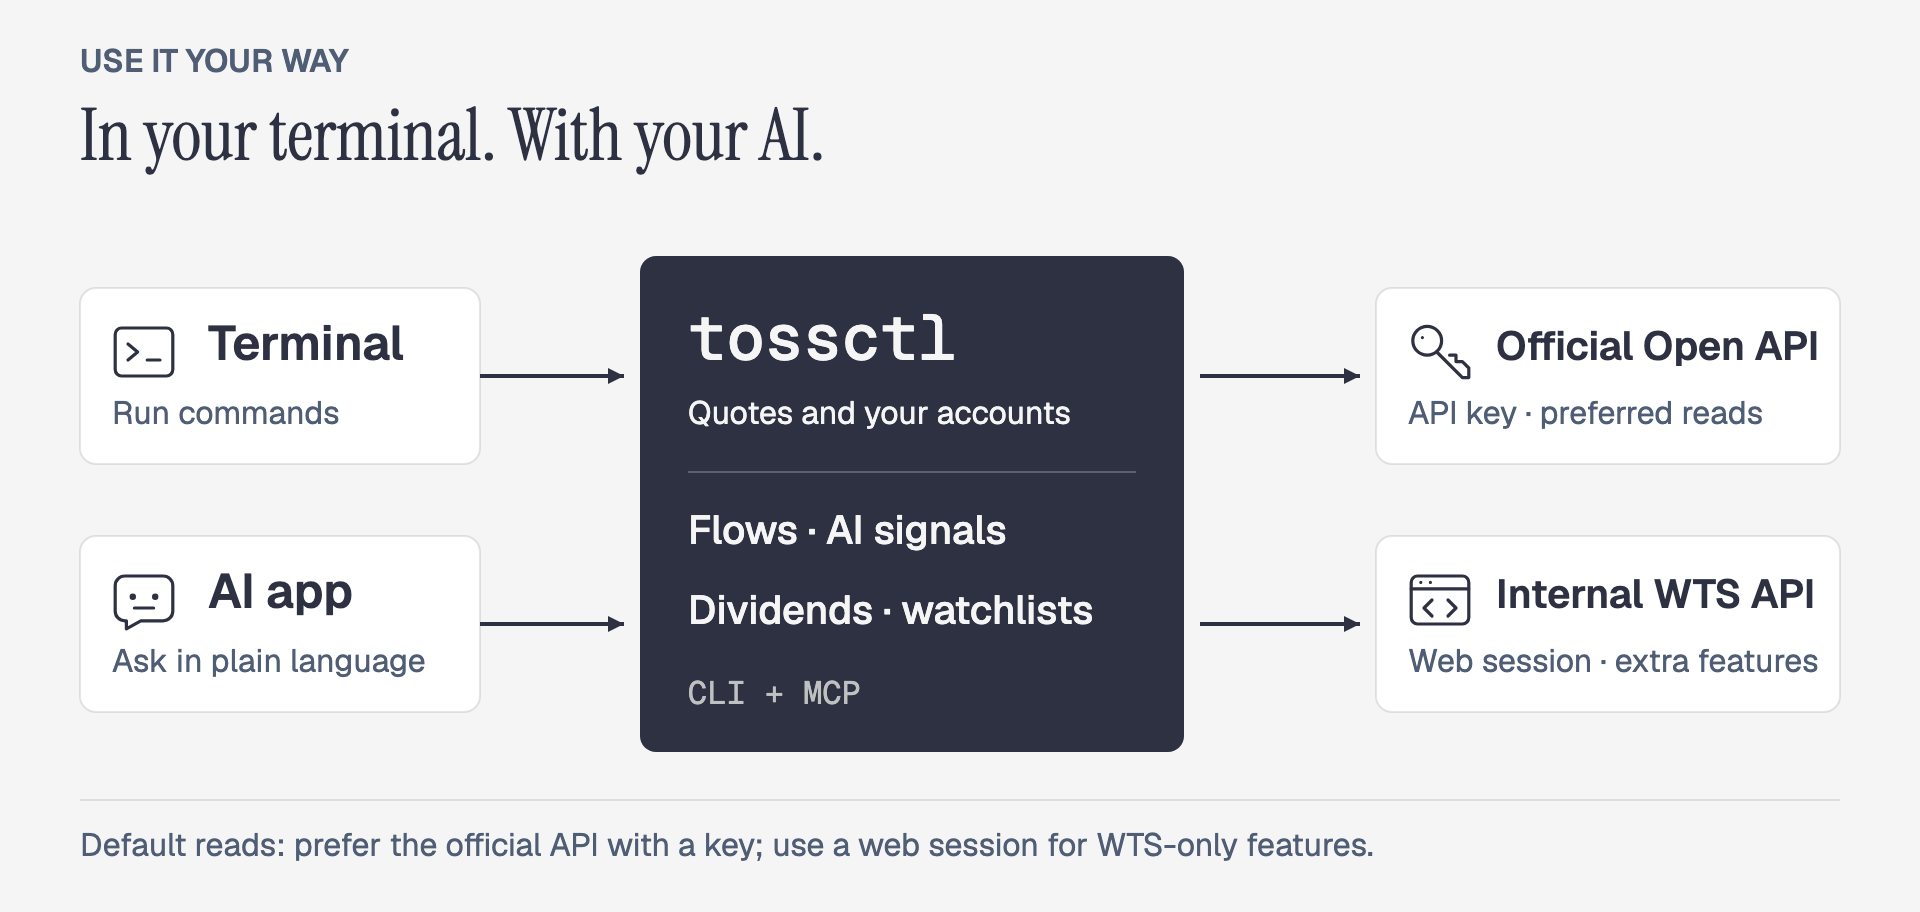
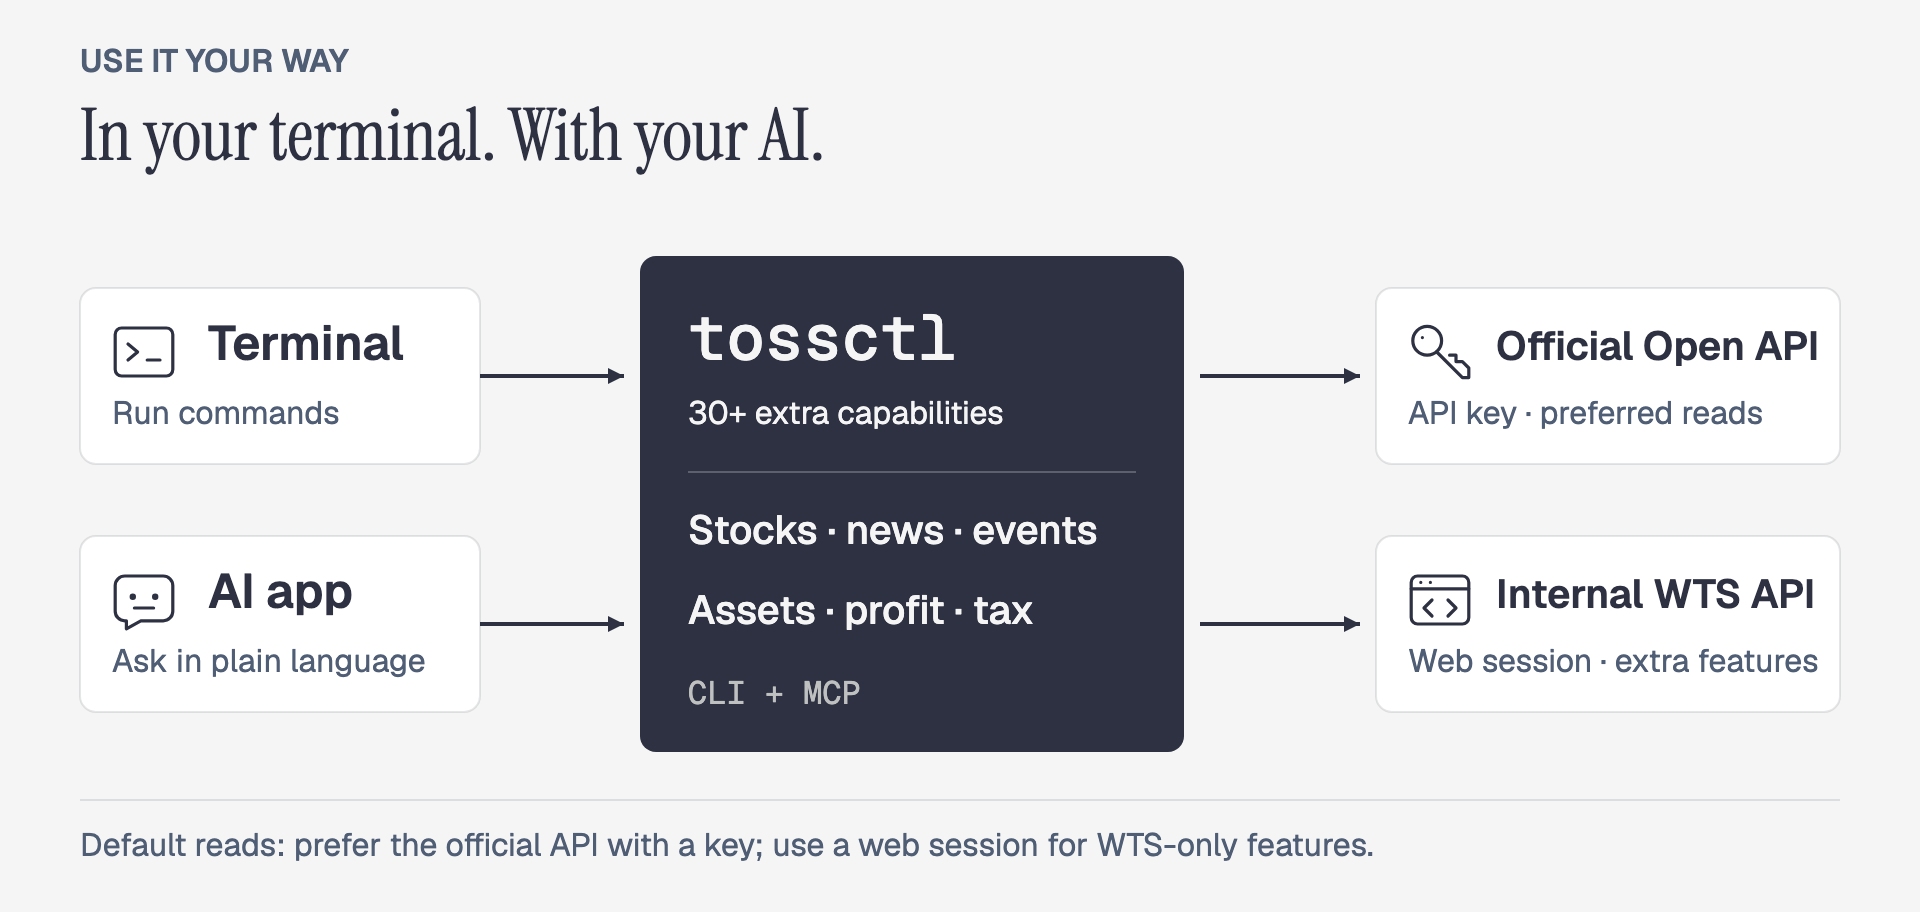
docs: 공식 API 밖의 30+ 기능과 지원 범위 강조 (#252)

Changed region(s): [[0.3438, 0.5526, 0.5625, 0.614], [0.3438, 0.6447, 0.5625, 0.7061], [0.3438, 0.4298, 0.5625, 0.4912]]

diff --git a/diagrams/readme-overview.en.html b/diagrams/readme-overview.en.html
@@ -48,10 +48,10 @@ svg { display: block; width: 100%; height: auto; font-family: "Geist", sans-seri
 <text x="104" y="304" font-size="24" font-weight="600" fill="#2d3142" text-anchor="start" class="">AI app</text>
 <text x="56" y="336" font-size="16" font-weight="400" fill="#4f5d75" text-anchor="start" class="">Ask in plain language</text>
 <text x="344" y="180" font-size="32" font-weight="500" fill="#f5f5f5" text-anchor="start" class="mono">tossctl</text>
-<text x="344" y="212" font-size="16" font-weight="400" fill="#f5f5f5" text-anchor="start" class="">Quotes and your accounts</text>
+<text x="344" y="212" font-size="16" font-weight="400" fill="#f5f5f5" text-anchor="start" class="">30+ extra capabilities</text>
 <path d="M344 236H568" stroke="rgba(245,245,245,0.24)"/>
-<text x="344" y="272" font-size="20" font-weight="500" fill="#f5f5f5" text-anchor="start" class="">Flows · AI signals</text>
-<text x="344" y="312" font-size="20" font-weight="500" fill="#f5f5f5" text-anchor="start" class="">Dividends · watchlists</text>
+<text x="344" y="272" font-size="20" font-weight="500" fill="#f5f5f5" text-anchor="start" class="">Stocks · news · events</text>
+<text x="344" y="312" font-size="20" font-weight="500" fill="#f5f5f5" text-anchor="start" class="">Assets · profit · tax</text>
 <text x="344" y="352" font-size="16" font-weight="400" fill="#bfc0c0" text-anchor="start" class="mono">CLI + MCP</text>
 <rect x="688" y="144" width="232" height="88" rx="8" fill="#ffffff" stroke="rgba(45,49,66,0.12)"/>
 <g transform="translate(704 160) scale(0.8)" fill="none" stroke="#2d3142" stroke-width="2" stroke-linecap="round" stroke-linejoin="round" aria-hidden="true"><circle cx="12" cy="13" r="9"/><path d="M18 20l16 16h4v-6l-4-4h-4v-4h-4M9 11h0"/></g>

diff --git a/diagrams/readme-overview.html b/diagrams/readme-overview.html
@@ -211,10 +211,10 @@ OTHER DEALINGS IN THE FONT SOFTWARE.
 <text x="104" y="304" font-size="24" font-weight="600" fill="#2d3142" text-anchor="start" class="">AI 앱</text>
 <text x="56" y="336" font-size="16" font-weight="400" fill="#4f5d75" text-anchor="start" class="">말로 요청</text>
 <text x="344" y="180" font-size="32" font-weight="500" fill="#f5f5f5" text-anchor="start" class="mono">tossctl</text>
-<text x="344" y="212" font-size="16" font-weight="400" fill="#f5f5f5" text-anchor="start" class="">시세부터 내 계좌까지</text>
+<text x="344" y="212" font-size="16" font-weight="400" fill="#f5f5f5" text-anchor="start" class="">공식 API 밖의 30+ 기능</text>
 <path d="M344 236H568" stroke="rgba(245,245,245,0.24)"/>
-<text x="344" y="272" font-size="20" font-weight="500" fill="#f5f5f5" text-anchor="start" class="">수급 · AI 시그널</text>
-<text x="344" y="312" font-size="20" font-weight="500" fill="#f5f5f5" text-anchor="start" class="">배당 · 관심종목</text>
+<text x="344" y="272" font-size="20" font-weight="500" fill="#f5f5f5" text-anchor="start" class="">종목 · 뉴스 · 투자 일정</text>
+<text x="344" y="312" font-size="20" font-weight="500" fill="#f5f5f5" text-anchor="start" class="">자산 · 손익 · 세금</text>
 <text x="344" y="352" font-size="16" font-weight="400" fill="#bfc0c0" text-anchor="start" class="mono">CLI + MCP</text>
 <rect x="688" y="144" width="232" height="88" rx="8" fill="#ffffff" stroke="rgba(45,49,66,0.12)"/>
 <g transform="translate(704 160) scale(0.8)" fill="none" stroke="#2d3142" stroke-width="2" stroke-linecap="round" stroke-linejoin="round" aria-hidden="true"><circle cx="12" cy="13" r="9"/><path d="M18 20l16 16h4v-6l-4-4h-4v-4h-4M9 11h0"/></g>

diff --git a/README.md b/README.md
@@ -8,7 +8,7 @@
 
 <p align="center">
   <strong>공식 API에서 빠진 투자 정보까지, 내 AI에게.</strong>
-  <br />수급·토스 AI 시그널·배당·관심종목을 터미널과 AI 앱에 연결하는 <code>tossctl</code>.
+  <br />종목 탐색부터 자산·손익·세금·관심종목 관리까지, <code>tossctl</code> 하나로.
 </p>
 
 <p align="center">
@@ -30,16 +30,17 @@
 
 ## 공식 API만으로는 빠지는 것들
 
-계좌·보유 종목·주문은 공식 API로도 연결할 수 있습니다. **tossctl은 거기서 빠지는 정보와 관리 기능까지 내 AI와 자동화에 연결합니다.**
+**AI 시그널·배당·관심종목은 일부입니다.** tossctl은 [공식 API에 없는 **30가지 이상의 기능**](https://tossinvest-cli.vercel.app/docs/reference/support-scope)을 내 AI와 자동화에 연결합니다. 종목을 찾는 일부터 내 자산의 변화와 세금 자료를 확인하는 일까지 한곳에서 다루세요.
 
-| 하고 싶은 일 | 공식 Open API | tossctl |
+| 더 할 수 있는 일 | 공식 Open API | tossctl에서 연결하는 기능 |
 |---|:---:|---|
-| 누가 사고파는지 수급 확인 | 미지원 | 투자자별 순매수 조회 |
-| 토스 AI 시그널 함께 보기 | 미지원 | 시장·종목별 시그널 조회 |
-| 내 배당 내역 모아 보기 | 미지원 | 배당 내역 조회 |
-| 관심종목·목표가 알림 관리 | 미지원 | 목록 조회와 변경 |
+| 종목 발굴·분석 | 미지원 | 토스 AI 시그널·등락 이유·조건검색·업종별 분석 |
+| 뉴스·투자 일정 확인 | 미지원 | 보유·관심종목 뉴스·어닝콜·주요 경제지표 일정 |
+| 내 자산·성과 모아 보기 | 미지원 | 전체 계좌 합산·평가 이력·배당·기간별 실현손익 |
+| 세금·추가 수익 확인 | 미지원 | 해외 양도소득·예탁금 이자·주식대여 예상 수익 |
+| 내 투자 관리 | 미지원 | 관심종목 폴더·목표가 알림·숨긴 종목·주식모으기 조회 |
 
-**“잔고가 얼마야?”에서 “수급과 토스 AI 시그널도 함께 보여줘”로.** 앱에서 따로 확인하던 정보를 이제 내 AI에게 요청하세요.
+**“잔고가 얼마야?”에서 “내 자산 변화와 받은 배당, 보유 종목 뉴스까지 정리해 줘”로.** 앱에서 따로 확인하던 정보를 이제 내 AI에게 요청하세요.
 
 <p align="center">
   <img src="diagrams/readme-workflow.png" alt="휴대폰으로 로그인하고 시세·수급·계좌·배당을 선택해 CLI나 MCP로 조회합니다. 결과는 터미널·JSON·AI 답변으로 활용하며, 실주문은 별도 미리보기와 사람의 승인이 필요합니다." width="100%" />
@@ -102,7 +103,7 @@ tossctl portfolio dividends
 tossctl portfolio positions --output json
 ```
 
-수급·AI 시그널·배당은 WTS 전용 기능입니다. 관심종목·목표가 알림·조건검색 등은 [명령 레퍼런스](https://tossinvest-cli.vercel.app/docs/reference/commands)에서 확인하세요.
+위 수급 명령은 WTS를 사용하며, 공식 API의 투자자별 매매동향 조회도 별도로 지원합니다. AI 시그널·배당 등 추가 기능의 사용법은 [명령 레퍼런스](https://tossinvest-cli.vercel.app/docs/reference/commands)에서 확인하세요.
 
 <details>
 <summary>실시간 구독 · API 감시 · 로컬 이력</summary>
@@ -139,7 +140,7 @@ claude mcp add tossctl tossctl mcp
 
 연결한 에이전트에 이렇게 요청하세요.
 
-> 삼성전자 투자자별 수급과 토스 AI 시그널을 함께 정리해 줘.
+> 내 자산 변화와 받은 배당을 정리하고, 보유 종목 뉴스도 함께 보여줘.
 
 Codex·Cursor 등 앱별 등록 방법은 [MCP 가이드](https://tossinvest-cli.vercel.app/docs/guide/mcp)를 참고하세요.
 

diff --git a/README.en.md b/README.en.md
@@ -8,7 +8,7 @@
 
 <p align="center">
   <strong>Give your AI the investment data the official API leaves out.</strong>
-  <br />Investor flows, Toss AI signals, dividends, and watchlists — in your terminal and AI apps with <code>tossctl</code>.
+  <br />From stock discovery to assets, profit, taxes, and watchlists — one <code>tossctl</code>.
 </p>
 
 <p align="center">
@@ -30,16 +30,17 @@
 
 ## What the Official API Leaves Out
 
-The official API already connects accounts, holdings, and orders. **tossctl brings the missing data and management tools into your AI and automation too.**
+**AI signals, dividends, and watchlists are only part of it.** tossctl brings [**30+ capabilities beyond the official API**](https://tossinvest-cli.vercel.app/en/docs/reference/support-scope) into your AI and automation. Discover stocks, track changes in your assets, and review tax records in one place.
 
-| What you want to do | Official Open API | tossctl |
+| What else you can do | Official Open API | What tossctl connects |
 |---|:---:|---|
-| See who is buying and selling | Not supported | Net buying by investor type |
-| Bring in Toss AI signals | Not supported | Market and stock signals |
-| Review your dividend history | Not supported | Dividend records |
-| Manage watchlists and price alerts | Not supported | Read and update your lists |
+| Discover and research stocks | Not supported | Toss AI signals, reasons for price moves, screening, sector analysis |
+| Follow news and investment events | Not supported | Holdings and watchlist news, earnings calls, key economic releases |
+| Review assets and performance | Not supported | All-account totals, valuation history, dividends, realized profit by period |
+| Check taxes and other income | Not supported | Overseas capital gains, deposit interest, expected stock-lending income |
+| Manage your investing setup | Not supported | Watchlist folders, price alerts, hidden holdings, accumulation-plan lookup |
 
-**Go from “What's my balance?” to “Show me investor flows and Toss AI signals too.”** Ask your AI for the information you used to check separately in the app.
+**Go from “What's my balance?” to “Summarize my asset changes, dividends received, and holdings news.”** Ask your AI for the information you used to check separately in the app.
 
 <p align="center">
   <img src="diagrams/readme-workflow.en.png" alt="Sign in on your phone, select quotes, flows, accounts, or dividends, and query through the CLI or MCP. Use results in a terminal, JSON, or an AI answer. Live orders require a separate preview and human approval." width="100%" />
@@ -102,7 +103,7 @@ tossctl portfolio dividends
 tossctl portfolio positions --output json
 ```
 
-Investor flows, AI signals, and dividends are WTS-only features. See the [command reference](https://tossinvest-cli.vercel.app/en/docs/reference/commands) for watchlists, price alerts, stock screening, and more.
+The flows command above uses WTS; the official API's investor-trading query is also supported separately. See the [command reference](https://tossinvest-cli.vercel.app/en/docs/reference/commands) for AI signals, dividends, and more.
 
 <details>
 <summary>Live streams · API monitoring · Local history</summary>
@@ -139,7 +140,7 @@ claude mcp add tossctl tossctl mcp
 
 Ask your connected agent:
 
-> Summarize investor flows and Toss AI signals for Samsung Electronics.
+> Summarize my asset changes and dividends received, and show news about my holdings.
 
 See the [MCP guide](https://tossinvest-cli.vercel.app/en/docs/guide/mcp) for Codex, Cursor, and other apps.
 

diff --git a/diagrams/README.md b/diagrams/README.md
@@ -99,6 +99,13 @@ authentication helpers, and local history are omitted. MCP, ops, and conditional
 orders use the official API only. The README keeps the user-facing order checks;
 full execution requirements live in the safety guide and configuration docs.
 
+The `30+` label counts supported, official-API-absent capability rows in the
+[support matrix](../website-fumadocs/content/docs/reference/support-scope.mdx),
+excluding local CSV export, order preview, and experimental paper trading.
+It describes user capabilities, not a count of distinct HTTP endpoints or a
+claim that no other project offers them. Recheck the matrix against the current
+official contract when updating this label.
+
 ## Validation
 
 When Diagram Design is installed, run its `scripts/self_check.py` on each HTML
